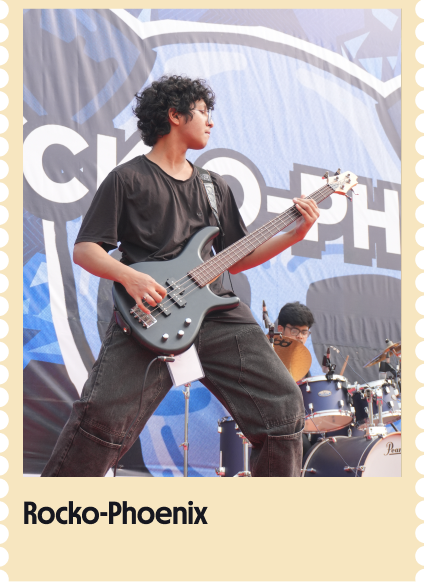
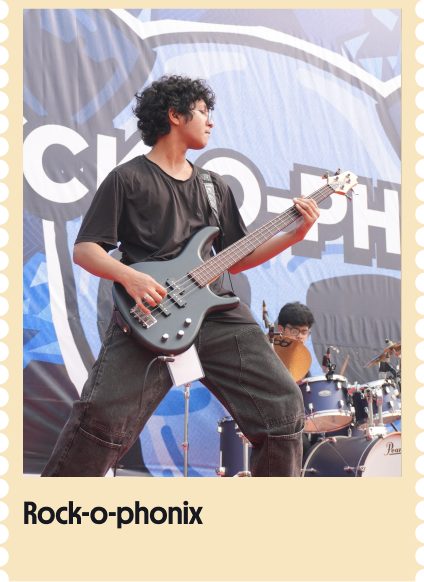
some content changes

Changed region(s): [[0.184, 0.8351, 0.4906, 0.9278]]

diff --git a/src/components/home/eventHighlight.js b/src/components/home/eventHighlight.js
@@ -1,4 +1,4 @@
-import { useState } from 'react';
+import { useState, useEffect } from 'react';
 import arrowLeft from '../../assets/images/arrow-left.png'
 import arrowRight from '../../assets/images/arrow-right.png'
 import MaskedHeading from '../MaskedHeading';
@@ -13,6 +13,14 @@ const highlights = [
 
 function EventHighlights() {
   const [activeIndex, setActiveIndex] = useState(0);
+  const [isMobile, setIsMobile] = useState(false);
+
+  useEffect(() => {
+    const checkMobile = () => setIsMobile(window.innerWidth < 768);
+    checkMobile();
+    window.addEventListener('resize', checkMobile);
+    return () => window.removeEventListener('resize', checkMobile);
+  }, []);
 
   const goPrev = () => {
     setActiveIndex((prev) => (prev === 0 ? highlights.length - 1 : prev - 1));
@@ -59,17 +67,19 @@ function EventHighlights() {
       </div>
 
       {/* Right: featured + peek carousel */}
-      <div className="flex-1 relative overflow-hidden py-8 md:py-14 px-4 md:px-6">
+      <div className="flex-1 relative overflow-hidden py-16 w-full min-h-[500px] md:min-h-[600px]">
         <div
-          className="flex items-center gap-6 transition-transform duration-500 ease-out"
-          style={{ transform: `translateX(-${activeIndex * (300 + 24)}px)` }}
+          className="absolute top-1/2 left-1/2 flex items-center gap-6 transition-transform duration-500 ease-out"
+          style={{ 
+            transform: `translate(calc(-${isMobile ? 110 : 150}px - ${activeIndex * (isMobile ? 244 : 324)}px), -50%)` 
+          }}
         >
           {highlights.map((src, i) => (
             <img
               key={i}
               src={src}
               alt={`Event highlight ${i + 1}`}
-              className="shrink-0 w-[300px] h-auto transition-all duration-500 ease-out origin-center"
+              className="shrink-0 w-[220px] md:w-[300px] h-auto transition-all duration-500 ease-out origin-center"
               style={{
                 opacity: i === activeIndex ? 1 : 0.35,
                 filter: i === activeIndex ? 'blur(0px)' : 'blur(2px)',

diff --git a/src/components/competitions/eventComp.js b/src/components/competitions/eventComp.js
@@ -1,4 +1,4 @@
-import { useState } from 'react';
+import { useState, useEffect } from 'react';
 import MaskedHeading from '../MaskedHeading';
 import arrowLeft from '../../assets/images/arrow-left.png'
 import arrowRight from '../../assets/images/arrow-right.png'
@@ -13,6 +13,14 @@ const highlights = [
 
 function EventComp() {
   const [activeIndex, setActiveIndex] = useState(0);
+  const [isMobile, setIsMobile] = useState(false);
+
+  useEffect(() => {
+    const checkMobile = () => setIsMobile(window.innerWidth < 768);
+    checkMobile();
+    window.addEventListener('resize', checkMobile);
+    return () => window.removeEventListener('resize', checkMobile);
+  }, []);
 
   const goPrev = () => {
     setActiveIndex((prev) => (prev === 0 ? highlights.length - 1 : prev - 1));
@@ -51,17 +59,19 @@ function EventComp() {
       </div>
 
       {/* Right: featured + peek carousel */}
-      <div className="flex-1 relative overflow-hidden py-10 md:py-14 px-10 md:px-6">
+      <div className="flex-1 relative overflow-hidden py-16 w-full min-h-[500px] md:min-h-[600px]">
         <div
-          className="flex items-center gap-6 transition-transform duration-500 ease-out"
-          style={{ transform: `translateX(-${activeIndex * (300 + 24)}px)` }}
+          className="absolute top-1/2 left-1/2 flex items-center gap-6 transition-transform duration-500 ease-out"
+          style={{ 
+            transform: `translate(calc(-${isMobile ? 110 : 150}px - ${activeIndex * (isMobile ? 244 : 324)}px), -50%)` 
+          }}
         >
           {highlights.map((src, i) => (
             <img
               key={i}
               src={src}
               alt={`Event highlight ${i + 1}`}
-              className="shrink-0 w-[300px] h-auto transition-all duration-500 ease-out origin-center"
+              className="shrink-0 w-[220px] md:w-[300px] h-auto transition-all duration-500 ease-out origin-center"
               style={{
                 opacity: i === activeIndex ? 1 : 0.35,
                 filter: i === activeIndex ? 'blur(0px)' : 'blur(2px)',

diff --git a/src/components/competitions/aboutComp.js b/src/components/competitions/aboutComp.js
@@ -15,10 +15,7 @@ function AboutComp() {
 
       <div className="self-end max-w-[640px] text-left mt-20">
         <p className="font-body text-[20px] text-white/70">
-          Alcheringa has many competitions spread across various genres. They take
-          place during the three days with the prize distribution on the last day. People
-          all over the country participate in these competitions to win exciting prizes
-          and goodies and to witness one of India&apos;s biggest cultural festival.
+          Alcheringa has many competitions spread across various genres. They take place during the three days with the trophy distribution on the final day of competition . People all over the country participate in these competitions to win exciting prizes and goodies and to witness one of India's biggest cultural festival.
         </p>
       </div>
     </section>

diff --git a/src/components/home/AboutSection.js b/src/components/home/AboutSection.js
@@ -12,7 +12,7 @@ function AboutSection() {
   const stats = [
     { label: 'Footfall', target: 150000, suffix: '+' },
     { label: 'Events', target: 100, suffix: '+' },
-    { label: 'Competitions', target: 48, suffix: '+' },
+    { label: 'Competitions', target: 50, suffix: '+' },
   ];
 
   useEffect(() => {
